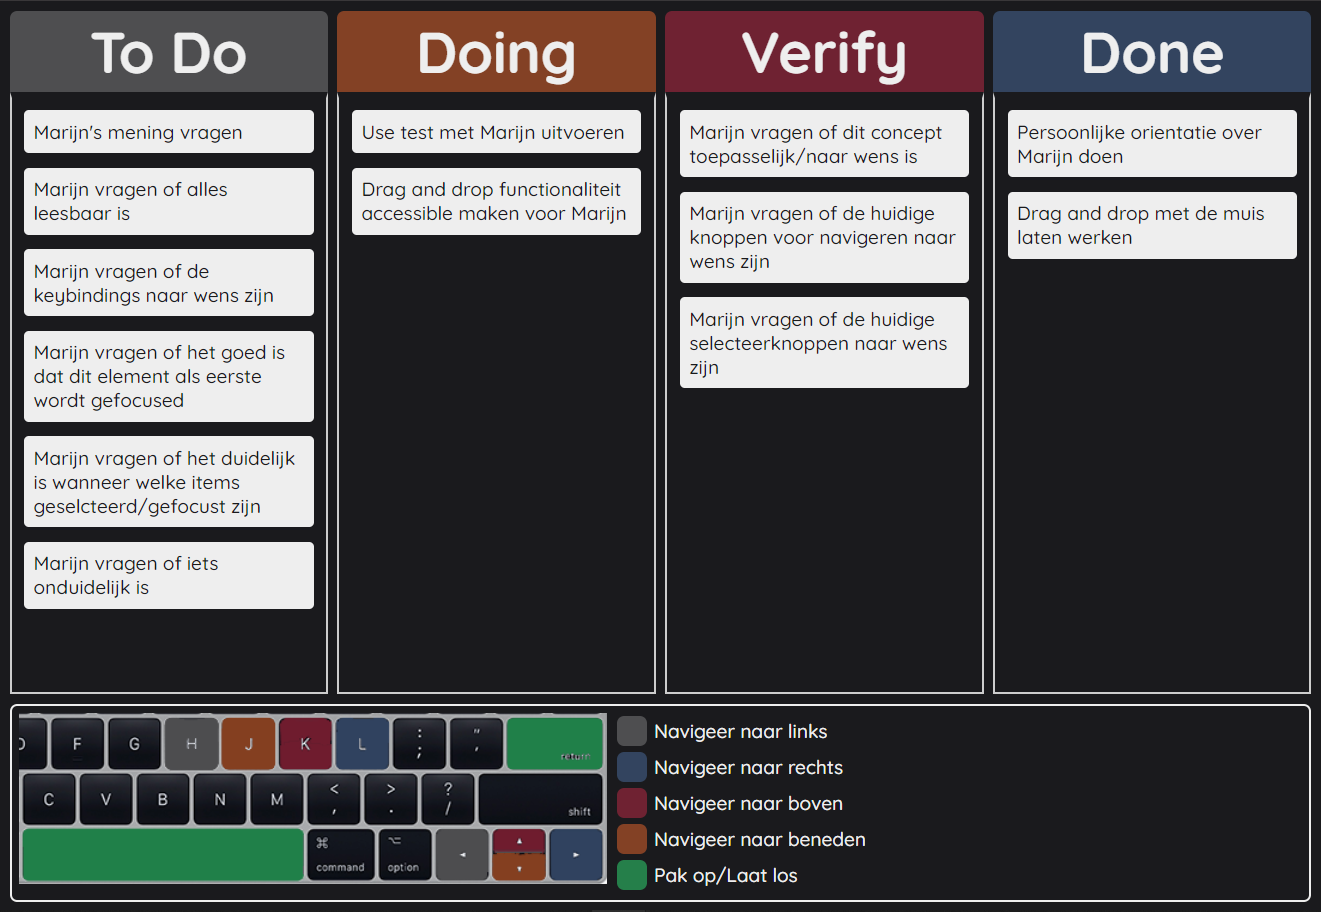
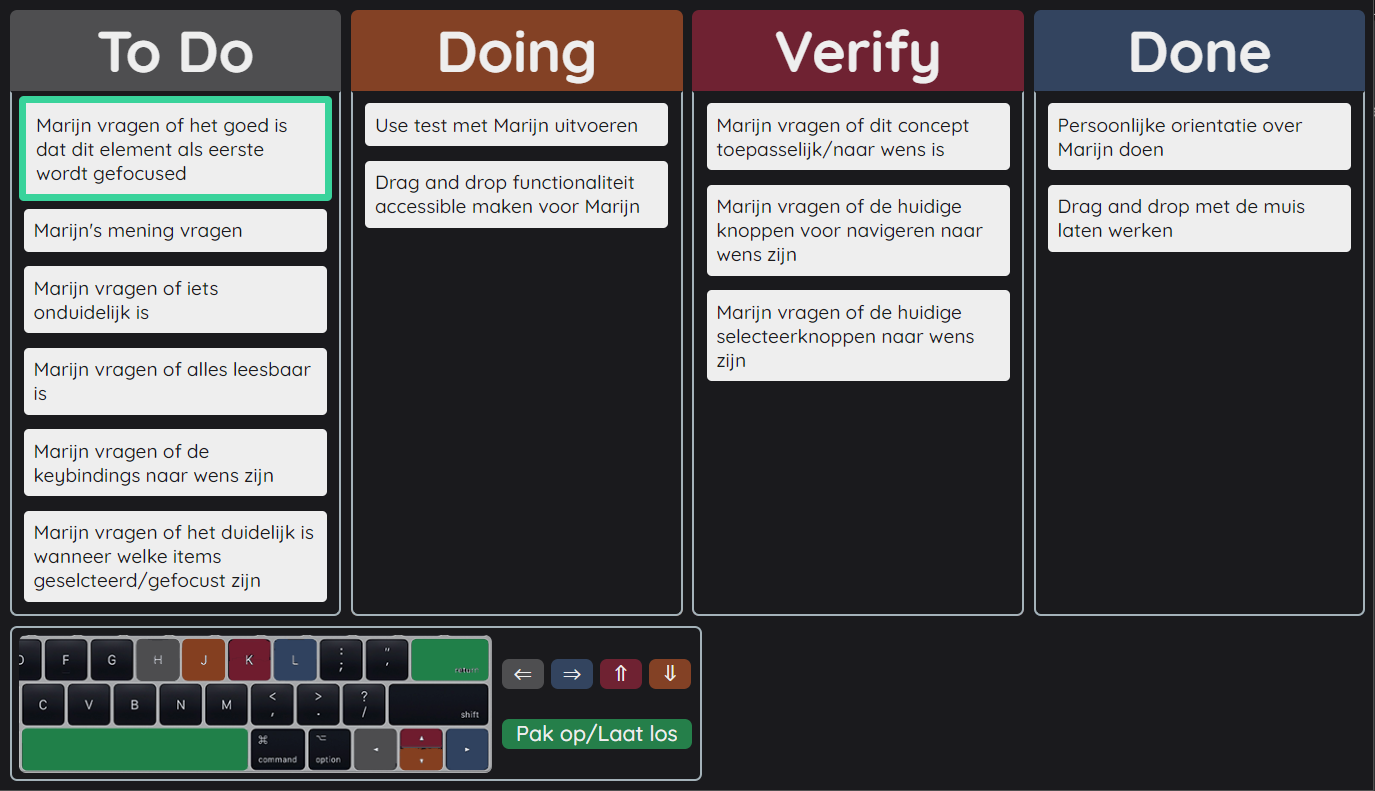
Updated README me about V2 of the prototype

Changed region(s): [[0.0, 0.0, 1.0, 1.0]]

diff --git a/README.md b/README.md
@@ -1,7 +1,15 @@
 # Accessible Drag and Drop
 This is a SCRUM board specifically designed for Marijn. Marijn is motor impaired and sometimes has trouble navigating websites. This app's core functionality is drag and dropping items from board to board. Normally this action is done by mouse, but with this scrum board you can also use your keyboard. For more info see: [User Scenario (Marijn)](#user-scenario-marijn)
 
+![Image](./docs/img/overview-v2.png)
+
+<details>  
+    <summary>V1</summary>
+    
 ![Image](./docs/img/overview.png)
+
+</details>  
+
 
 ## Demo's
 
@@ -57,17 +65,39 @@ The prototype should should meet these specifications:
 ## How does it work
 This is what the website looks like:
 
+![Image](./docs/img/overview-v2.png)
+
+<details>  
+    <summary>V1</summary>
+    
 ![Image](./docs/img/overview.png)
+
+</details>  
+
 
 There are four board where an item can be placed. These board are To-Do, doing, Verify and Done. These board are usually used with SCRUM. 
 
 At the bottom is a comprehensive navigation guide with a mac keyboard layout, this is because Marijn uses a MacBook. I implemented navigation keys on the right side of the keyboard because that's what Marijn preferred. The guide is in Dutch because that is his main spoken language. Here is an enlarged image of the navigation guide:
 
+![Image](./docs/img/navigation_explantation-v2.png)
+
+<details>  
+    <summary>V1</summary>
+    
 ![Image](./docs/img/navigation_explantation.png)
+
+</details>  
 
 In order to move an item, Marijn must first set focus on an item. When entering the site, the first item is standard in focus. Once Marijn has chosen an item he wants to move, he clicks the hold/release button. Now the prototype is in the state of holding an item, this is indicated by the box shadow of an item and the background of the board being a different color. Marijn can now change the board to hover over by navigating left or right. The background of the board changes when it is hovered over. Once the wanted board is hovered over, Marijn can press the hold/release button. Now the item is moved to the specified board and focus is set on the item that has been moved. Here is a wireframe of this action:
 
+![Image](./docs/img/moving_item-v2.png)
+
+<details>  
+    <summary>V1</summary>
+    
 ![Image](./docs/img/moving_item.png)
+
+</details>  
 
 ## Feedback sessions
 
@@ -121,54 +151,56 @@ I removed the numpad keybindings and the WASD keybindings.
 
 This is what the new layout looks like:
 
+![Image](./docs/img/navigation_explantation-v2.png)
 
 <details>  
-    <summary>Version 1 keyboard layout</summary>
+    <summary>V1</summary>
     
-![Image](./docs/img/navigation.png)
-
-</details>  
-
-<details>  
-    <summary>Version 2 keyboard layout</summary>
-    
-![Image](./docs/img/navigation-2.png)
+![Image](./docs/img/navigation_explantation.png)
 
 </details>  
 
 #### Changed color pallet
 The overall color scheme in V2 of the prototype is a bit darker.
 
+![Image](./docs/img/overview-v2.png)
+
 <details>  
-    <summary>Version 1 overview</summary>
+    <summary>V1</summary>
     
 ![Image](./docs/img/overview.png)
 
 </details>  
 
-<details>  
-    <summary>Version 2 overview</summary>
-    
-![Image](./docs/img/overview-v2.png)
-
-</details>  
-
 #### Changed focus/grabbed state style
-I changed the look of the hover and grabbed state
+I changed the look of the hover and grabbed state. The new focus state won't shift colors from blue to red. It is now just solid mint green:
+
+![Image](docs/img/focus-v2.png)
 
 <details>  
-    <summary>Focus state</summary>
+    <summary>V1</summary>
     
-![Image](docs/img/focus-state-v2.png)
-
-</details>  
-<details>  
-    <summary>Grabbed state</summary>
-    
-![Image](docs/img/grabbed-state-v2.png)
+![Image](docs/img/focus-v1.png)
 
 </details>  
 
+The grab state now has a mint green box-shadow:
+
+![Image](docs/img/grab-v2.png)
+
+<details>  
+    <summary>V1</summary>
+    
+![Image](docs/img/grab-v1.png)
+
+</details>
+
+#### Added functionality to move items up and down
+
+Items can now be moved up and down in a board:
+
+![Image](./docs/img/moving_item-up.png)
+  
 #### Added .favicon
 I added a favicon with a punk/rock style as an "easteregg"
 
